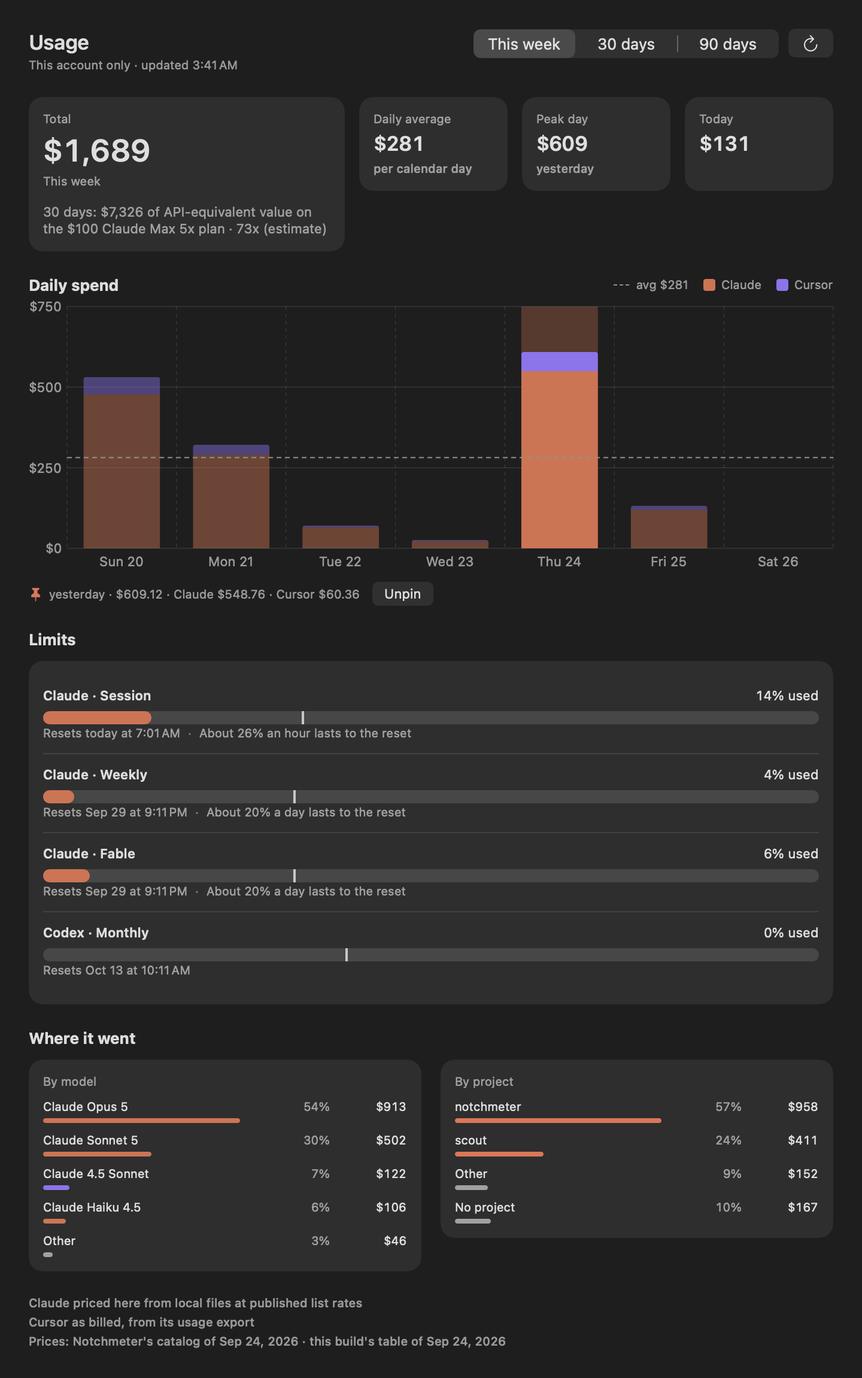
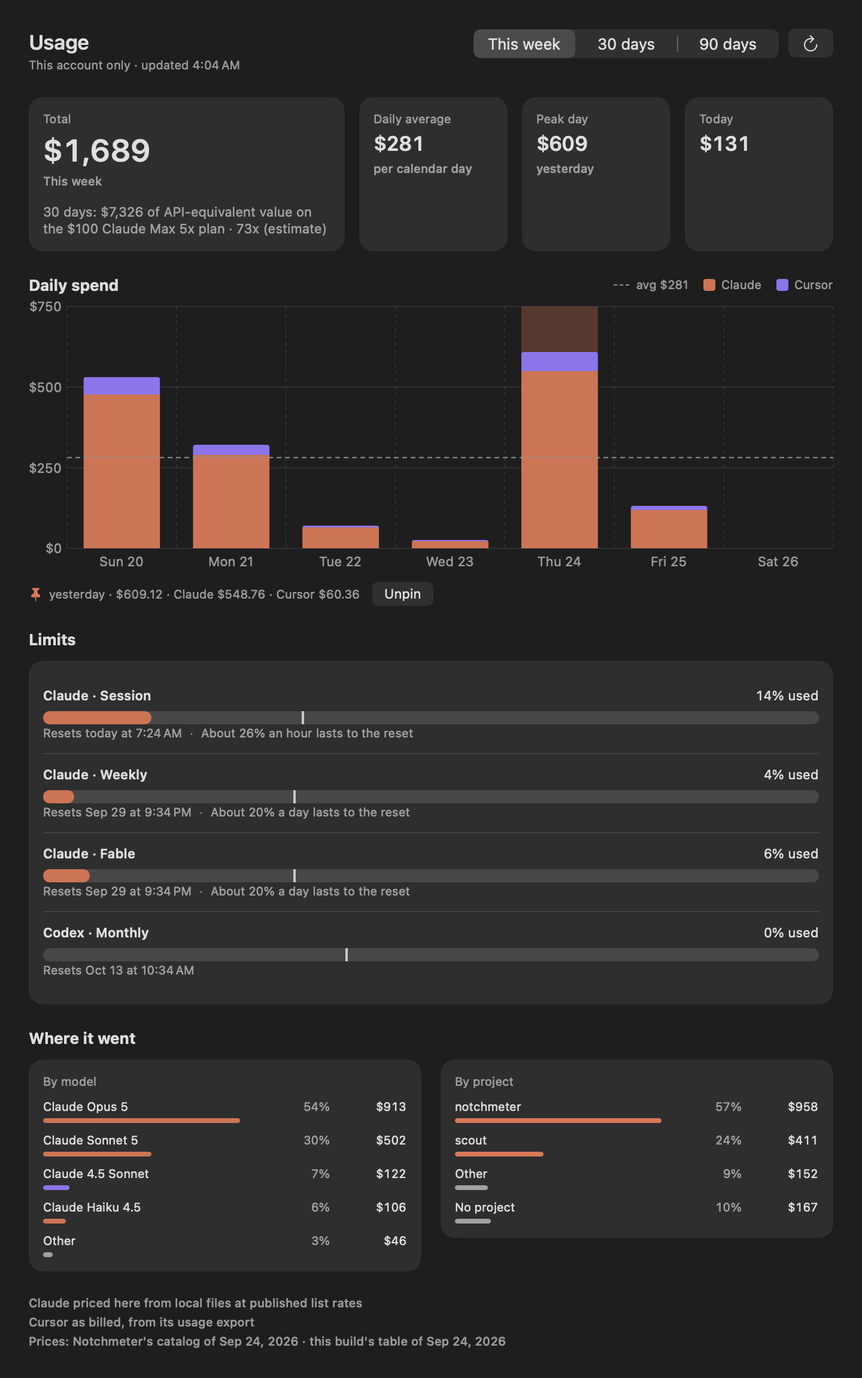
Dashboard: the review's fixes — no dim under a pin, one day per slot, the window's own status colours
The pin turned the hover's dim of the other days into the chart's resting state, at about 2:1 on either window
and off the legend's swatches: the bars now keep their colour whatever day is chosen, and the accent band alone
marks it. Each day's slot speaks its day once, as the label, with the figures as the value (dayFigures); the band
and the average rule are hidden from VoiceOver like the bars. The limits' vermillion and orange are resolved
against the window and its card box (DashboardLook.status) rather than borrowed from the black panel's palette,
which read 4.3:1 and 3.5:1 on the dark window; the meter's tick figure is the row's own words for VoiceOver, not
a tooltip's alone. A range change lets the preview go with the pin, the tiles stand as tall as the hero card, the
caption under the total takes the tiles' step, and features.md names the five review renders.

DashboardPresentation measures every assistant's bar on both windows, the status colours in both roles on both
windows and both card boxes, the slot's value against its label, and the selection after a range change.

Claude-Session: https://claude.ai/code/session_01XbqdrwMrwJ3enjCnoUf2M8

diff --git a/Sources/Notchmeter/Dashboard.swift b/Sources/Notchmeter/Dashboard.swift
@@ -270,19 +270,25 @@ extension ToolID {
     /// three older hues, whose notch values fall short of it. Both sets pass the dataviz validator (lightness band,
     /// chroma, CVD and normal-vision separation, contrast) against their surface.
     var chartColor: Color {
-        let dark: UInt32 = switch self {
-        case .claude: 0xCC7555
-        case .cursor: 0x8C74EA
-        case .codex: 0x34A874
-        case .gemini, .antigravity, .copilot, .kimi: identity.dark  // each above 5.8:1 on the dark window as it is
+        Color(nsColor: .adaptive(light: chartInk(dark: false).hex, dark: chartInk(dark: true).hex))
+    }
+
+    /// The value `chartColor` takes under each appearance, which `DashboardPresentation` holds to 3:1 on its
+    /// window: the bars are drawn at full strength whatever day is chosen, so this is the contrast they are read at.
+    func chartInk(dark: Bool) -> RGB {
+        guard dark else { return RGB(hex: identity.light) }
+        return switch self {
+        case .claude: RGB(hex: 0xCC7555)
+        case .cursor: RGB(hex: 0x8C74EA)
+        case .codex: RGB(hex: 0x34A874)
+        case .gemini, .antigravity, .copilot, .kimi: RGB(hex: identity.dark)  // each above 5.8:1 on the dark window as it is
         // The notch's violet sits on top of Cursor's periwinkle once both are stepped for a window (1.6 under
         // deuteranopia), so OpenCode's window step leans to the orchid side of the same purple: 17.9 normal and 7.9
         // CVD from the dark set at 3.55:1 on its surface; the light window takes the identity's own light value, 5.5:1
         // on white. The Dashboard names every series in its legend, which is the secondary encoding the 6–8 CVD
         // band asks for.
-        case .opencode: 0xC818B8
+        case .opencode: RGB(hex: 0xC818B8)
         }
-        return Color(nsColor: .adaptive(light: identity.light, dark: dark))
     }
 }
 
@@ -317,6 +323,28 @@ enum DashboardLook {
     /// The accent as text on the window: the pin beside the chosen day's figures.
     static func pin(dark: Bool, accent: PanelAccent, contrast: Bool) -> RGB {
         look(dark: dark, accent: accent, contrast: contrast).rgb(accentInk(contrast: contrast), role: .text)
+    }
+
+    static func window(dark: Bool) -> RGB { dark ? darkWindow : lightWindow }
+
+    /// A card's box on the window: CardBackground's wash of the look's ink over the window's ground, at the
+    /// opacity the card names (stronger under Increase Contrast), scaled as the look scales it (`PanelLook.box`
+    /// is the same wash over the panel's own sheet). Measured from the dark render as #2E2E2E.
+    static func box(dark: Bool, contrast: Bool) -> RGB {
+        let look = look(dark: dark, accent: .terracotta, contrast: contrast)
+        return look.ink.over(window(dark: dark), alpha: look.washOpacity(contrast ? 0.16 : 0.07))
+    }
+
+    /// A status colour on the window (the spent line and the behind-pace note as words, the meter's fill as a
+    /// mark): the look's value for the role, moved in lightness by the least that reads on the window and on a
+    /// card's box there, at 4.5:1 for words and 3:1 for a mark, as the panel's palette moves it for the panel's own
+    /// grounds (`RGB.readable`). The black look's vermillion passes on black (5.4:1) and so comes back from the
+    /// panel as it is, but the dark window is #1E1E1E, where it reads at 4.3:1, and its card box 3.5:1. The status
+    /// colours are the same under every accent, so the look is taken for the default one.
+    static func status(_ name: PanelInk, role: PanelLook.Role, dark: Bool, contrast: Bool) -> RGB {
+        let grounds = [window(dark: dark), box(dark: dark, contrast: contrast)]
+        return look(dark: dark, accent: .terracotta, contrast: contrast).rgb(name, role: role)
+            .readable(against: grounds, target: role == .text ? 4.5 : 3, lighter: dark)
     }
 }
 
@@ -358,6 +386,11 @@ struct DashboardSelection: Equatable {
 
     /// Escape, the Unpin button, or a change of range.
     mutating func unpin() { pinned = nil }
+
+    /// A change of range: the chart is rebuilt for it (DashboardView.chartSection) and the old range's slots go
+    /// without reporting the pointer's leave, so the preview is let go with the pin rather than naming a day
+    /// the pointer is no longer over.
+    mutating func clearHover() { hovered = nil }
 }
 
 /// The hero and the three tiles as they are printed: the range's total, the value line under it, and the average,
@@ -454,7 +487,7 @@ struct DashboardView: View {
                     hero(DashboardHero(model: model, valueLine: store.planValueLine(for: range.costRange)))
                     chartSection(model, accent: accent, ink: ink, pinMark: DashboardLook.pin(dark: dark, accent: store.prefs.panelAccent, contrast: contrast).color)
                 }
-                if !limits.isEmpty { limitsSection(limits) }
+                if !limits.isEmpty { limitsSection(limits, dark: dark, contrast: contrast) }
                 if !model.isEmpty { breakdownSection(model, accent: accent) }
                 if !model.isEmpty { sourcesFootnote(model) }
             }
@@ -464,8 +497,10 @@ struct DashboardView: View {
         .environment(\.panelLook, look)
         .environment(\.density, store.prefs.density)
         .onChange(of: range) {
-            // The chart is rebuilt for the new range, and a pin on a day its bars may not hold goes with it.
+            // The chart is rebuilt for the new range: a pin on a day its bars may not hold goes with it, and so
+            // does the preview, since the old range's slots are torn down without reporting the pointer's leave.
             if selection.isPinned { unpin() }
+            selection.clearHover()
         }
         if scrolls {
             ScrollView { content }
@@ -559,7 +594,8 @@ struct DashboardView: View {
         VStack(alignment: .leading, spacing: 4) {
             Text(L("Total")).font(.caption).foregroundStyle(Caption.style)
             Text(figures.total).font(.largeTitle.weight(.semibold)).monospacedDigit().lineLimit(1).minimumScaleFactor(0.6)
-            Text(figures.range).font(.caption).foregroundStyle(Caption.style)
+            // The caption under a figure, at the step the tiles' captions take; "Total" above is a title, like theirs.
+            Text(figures.range).modifier(Caption())
             if let value = figures.value {
                 Text(value)
                     .font(.subheadline).foregroundStyle(Caption.style)
@@ -578,7 +614,9 @@ struct DashboardView: View {
             Text(tile.value).font(.title2.weight(.semibold)).monospacedDigit().lineLimit(1).minimumScaleFactor(0.7)
             Text(tile.caption.isEmpty ? " " : tile.caption).modifier(Caption()).lineLimit(1).fixedSize()
         }
-        .frame(minWidth: 100, maxWidth: .infinity, alignment: .leading)
+        // As tall as the row: the hero's value line wraps to two lines in English at the window's width and three
+        // in Russian, and a tile that kept its own height would leave the row's bottom ragged beside it.
+        .frame(minWidth: 100, maxWidth: .infinity, maxHeight: .infinity, alignment: .topLeading)
         .modifier(CardBackground())
         .accessibilityElement(children: .combine)
     }
@@ -635,14 +673,22 @@ struct DashboardView: View {
             }
             .frame(maxWidth: .infinity, alignment: .leading)
         } else {
-            Text(day.map(Self.dayLine) ?? L("Hover a bar for that day's figures; click it to keep them."))
+            Text(day.map { Self.dayLine($0) } ?? L("Hover a bar for that day's figures; click it to keep them."))
                 .font(.caption).foregroundStyle(Caption.style)
                 .frame(maxWidth: .infinity, alignment: .leading)
         }
     }
 
-    static func dayLine(_ day: DashboardModel.Day) -> String {
-        var parts = [ResetText.dayPhrase(day.day, now: Date(), calendar: .current), Money.dollars(day.total)]
+    /// "yesterday · $609.12 · Claude $548.76 · Cursor $60.36": the day, then its figures.
+    static func dayLine(_ day: DashboardModel.Day, now: Date = Date(), calendar: Calendar = .current) -> String {
+        "\(ResetText.dayPhrase(day.day, now: now, calendar: calendar)) · \(dayFigures(day))"
+    }
+
+    /// The day's figures without the day: the total, whether the bar holds only part of the day, and the split by
+    /// assistant where more than one spent. A slot's VoiceOver value, whose label is the day already, so a slot
+    /// does not name its day twice.
+    static func dayFigures(_ day: DashboardModel.Day) -> String {
+        var parts = [Money.dollars(day.total)]
         // The Today tile counts the whole day; this bar only what came after the week reset.
         if day.partial { parts.append(L("since the week reset")) }
         if day.byTool.count > 1 {
@@ -675,13 +721,13 @@ struct DashboardView: View {
 
     // MARK: Limits
 
-    private func limitsSection(_ limits: [DashboardLimit]) -> some View {
+    private func limitsSection(_ limits: [DashboardLimit], dark: Bool, contrast: Bool) -> some View {
         VStack(alignment: .leading, spacing: 10) {
             sectionTitle(L("Limits"))
             VStack(spacing: 0) {
                 ForEach(Array(limits.enumerated()), id: \.element.id) { index, limit in
                     if index > 0 { Divider() }
-                    LimitRow(limit: limit, timeFormat: store.prefs.timeFormat)
+                    LimitRow(limit: limit, timeFormat: store.prefs.timeFormat, dark: dark, contrast: contrast)
                         .padding(.vertical, 10)
                 }
             }
@@ -737,9 +783,12 @@ private struct Line: Shape {
 }
 
 /// Stacked daily bars, one colour per assistant, a dashed line at the daily average, and a band in the accent over
-/// the day whose figures are under the chart, stronger while that day is pinned. The bars themselves say nothing to
-/// VoiceOver: an invisible element over each day's slot speaks for them (the day, the total, the split) and takes
-/// the hover and the click, so what a pointer can pin a VoiceOver reader can pin too, and no figure is hover-only.
+/// the day whose figures are under the chart, stronger while that day is pinned. The band is the only mark of the
+/// day: the other days' bars keep their colour, since dimming them (as a hover once did) put six of seven bars
+/// under 3:1 on either window and off the legend's swatches for as long as a pin held. The bars, the band and the
+/// rule say nothing to VoiceOver: an invisible element over each day's slot speaks for them (the day, the total,
+/// the split) and takes the hover and the click, so what a pointer can pin a VoiceOver reader can pin too, and no
+/// figure is hover-only.
 private struct DailySpendChart: View {
     let model: DashboardModel
     let shown: DashboardModel.Day?
@@ -770,20 +819,22 @@ private struct DailySpendChart: View {
     var body: some View {
         Chart {
             if let shown {
-                // First, so it lies under the bars.
+                // First, so it lies under the bars. Hidden from VoiceOver like the bars: the day's slot speaks for it.
                 RectangleMark(x: .value(L("Day"), shown.day, unit: .day))
                     .foregroundStyle(accent.opacity(pinned ? 0.3 : 0.16))
+                    .accessibilityHidden(true)
             }
             ForEach(model.bars) { bar in
                 BarMark(x: .value(L("Day"), bar.day, unit: .day), y: .value(L("Spend"), bar.cost))
                     .foregroundStyle(by: .value(L("Assistant"), bar.tool.displayName))
-                    .opacity(shown.map { calendar.isDate(bar.day, inSameDayAs: $0.day) } ?? true ? 1 : 0.45)
                     .accessibilityHidden(true)
             }
             if let average = model.dailyAverage {
+                // Its figure is in the legend above the chart ("avg $281"), so the rule itself says nothing.
                 RuleMark(y: .value(L("Daily average"), average))
                     .foregroundStyle(ink)
                     .lineStyle(StrokeStyle(lineWidth: 1, dash: [4, 3]))
+                    .accessibilityHidden(true)
             }
         }
         .chartForegroundStyleScale(domain: model.tools.map(\.displayName), range: model.tools.map(\.chartColor))
@@ -841,22 +892,37 @@ private struct DailySpendChart: View {
             .accessibilityElement()
             .accessibilityAction { click(day.day) }
             .accessibilityLabel(ResetText.dayPhrase(day.day, now: Date(), calendar: calendar))
-            .accessibilityValue(Spoken.line(isPinned ? L("Pinned") : nil, DashboardView.dayLine(day)))
+            // The figures alone: the label is the day, and the line under the chart is the one that repeats it.
+            .accessibilityValue(Spoken.line(isPinned ? L("Pinned") : nil, DashboardView.dayFigures(day)))
             .accessibilityHint(L("Pins or unpins this day's figures under the chart"))
             .accessibilityAddTraits(.isButton)
     }
 }
 
+/// One limit: the meter, the reset and the allowance, and the pace note. The status colours are the window's own
+/// (`DashboardLook.status`), resolved here rather than through `Themed`, whose look is derived against the panel's
+/// grounds and not the window's.
 private struct LimitRow: View {
     let limit: DashboardLimit
     let timeFormat: TimeFormatPreference
+    let dark: Bool
+    let contrast: Bool
+
+    private func status(_ name: PanelInk, _ role: PanelLook.Role) -> Color {
+        DashboardLook.status(name, role: role, dark: dark, contrast: contrast).color
+    }
 
     private var fillColor: Color {
         switch limit.status {
-        case .behind: Palette.danger
-        case .onTrack: Palette.warn
-        default: limit.used >= 1 ? Palette.danger : limit.tool.chartColor
+        case .behind: status(.danger, .mark)
+        case .onTrack: status(.warn, .mark)
+        default: limit.used >= 1 ? status(.danger, .mark) : limit.tool.chartColor
         }
+    }
+
+    /// "The tick marks an even pace: 33% of the window has passed", the tick's figure in words.
+    private var tickLine: String? {
+        limit.elapsed.map { L("The tick marks an even pace: %ld%% of the window has passed", Int(($0 * 100).rounded())) }
     }
 
     var body: some View {
@@ -867,9 +933,14 @@ private struct LimitRow: View {
                 Text(L("%ld%% used", Int((limit.used * 100).rounded()))).font(.subheadline).monospacedDigit()
             }
             // The panel's own meter (the bar under every window on the cards): the fill in the pace colour or the
-            // tool's own, the tick where an even burn would be now, the track the look gives it.
+            // tool's own, the tick where an even burn would be now, the track the look gives it. The tick's figure
+            // is the tooltip for a pointer and the meter's own words for VoiceOver, which the row's combined
+            // element reads with the rest, so the one number the tick encodes is never a hover's alone.
             Meter(fraction: limit.used, tick: limit.elapsed, color: fillColor)
-                .help(limit.elapsed.map { L("The tick marks an even pace: %ld%% of the window has passed", Int(($0 * 100).rounded())) } ?? "")
+                .help(tickLine ?? "")
+                .accessibilityElement(children: .ignore)
+                .accessibilityLabel(tickLine ?? "")
+                .accessibilityHidden(tickLine == nil)
             HStack(alignment: .firstTextBaseline, spacing: 6) {
                 if let reset = limit.window.resetsAt {
                     Text(ResetText.line(resetsAt: reset, hasLimit: true, display: .exact, timeFormat: timeFormat, stale: limit.staleLine != nil))
@@ -879,7 +950,7 @@ private struct LimitRow: View {
                     Text(verbatim: "·").foregroundStyle(Ink.tertiary)
                     if limit.used >= 1 {
                         // The spent bar is vermillion; the words and a symbol say why, never the fill alone.
-                        Label(line, systemImage: "exclamationmark.triangle.fill").foregroundStyle(Themed(Palette.danger, .text))
+                        Label(line, systemImage: "exclamationmark.triangle.fill").foregroundStyle(status(.danger, .text))
                     } else {
                         Text(line).foregroundStyle(Caption.style)
                     }
@@ -890,7 +961,7 @@ private struct LimitRow: View {
             if let note = limit.note, let status = limit.status, let symbol = status.symbolName {
                 Label(note, systemImage: symbol)
                     .font(.caption.weight(.medium))
-                    .foregroundStyle(Themed(status == .behind ? Palette.danger : Palette.warn, .text))
+                    .foregroundStyle(self.status(status == .behind ? .danger : .warn, .text))
             }
             if let stale = limit.staleLine {
                 Text(stale).font(.caption).foregroundStyle(Caption.style)

diff --git a/Tests/NotchmeterTests/DashboardTests.swift b/Tests/NotchmeterTests/DashboardTests.swift
@@ -346,6 +346,44 @@ import Testing
         #expect(DashboardLook.look(dark: false, accent: .lilac, contrast: true).contrast)
     }
 
+    /// The bars are drawn at full strength whatever day is chosen (a pin once dimmed the other days to 0.45, which
+    /// put Claude at 2.0:1 and Cursor at 1.9:1 on either window), so the contrast a bar is read at is its colour's
+    /// own against the window it is on, and every assistant's clears the 3:1 a mark owes there.
+    @Test func everyAssistantsBarsReadOnEitherWindow() {
+        let minimumMark = 3.0
+        for tool in ToolID.allCases {
+            #expect(tool.chartInk(dark: true).contrast(DashboardLook.darkWindow) >= minimumMark, "\(tool) on the dark window")
+            #expect(tool.chartInk(dark: false).contrast(DashboardLook.lightWindow) >= minimumMark, "\(tool) on the light window")
+        }
+    }
+
+    /// The status colours on the limits card are held to the window's own grounds, not the panel's: the black
+    /// look's vermillion passes as text on black (5.4:1) and so the panel leaves it, but the dark window is #1E1E1E
+    /// (4.3:1) and a card's box on it #2E2E2E (3.5:1), both under the 4.5:1 words owe. Measured in both roles on
+    /// both windows and both card boxes, with and without Increase Contrast.
+    @Test func theStatusColoursReadOnEitherWindowAndItsCards() {
+        #expect(DashboardLook.box(dark: true, contrast: false).description == "#2E2E2E", "the card box the dark render measured")
+        for dark in [true, false] {
+            for contrast in [false, true] {
+                let window = DashboardLook.window(dark: dark)
+                let box = DashboardLook.box(dark: dark, contrast: contrast)
+                for name in [PanelInk.danger, .warn] {
+                    let text = DashboardLook.status(name, role: .text, dark: dark, contrast: contrast)
+                    let mark = DashboardLook.status(name, role: .mark, dark: dark, contrast: contrast)
+                    let pairing = "\(name) \(dark ? "dark" : "light")\(contrast ? " contrast" : "")"
+                    #expect(text.contrast(window) >= 4.5, "\(pairing) as text on the window")
+                    #expect(text.contrast(box) >= 4.5, "\(pairing) as text on the card box")
+                    #expect(mark.contrast(window) >= 3, "\(pairing) as a mark on the window")
+                    #expect(mark.contrast(box) >= 3, "\(pairing) as a mark on the card box")
+                }
+            }
+        }
+        let panels = PanelInk.danger.onBlack
+        let lifted = DashboardLook.status(.danger, role: .text, dark: true, contrast: false)
+        #expect(lifted != panels, "the dark window's vermillion is lifted from the panel's, which reads 4.3:1 there")
+        #expect(lifted.contrast(panels) < 2, "and lifted in lightness alone, so it is still the vermillion")
+    }
+
     /// The system accent is the one colour on the Mac that says nothing about this app, and the audit of the 0.9.0
     /// render found it on the breakdown's bars: the only blue on the page, and a blue the panel never draws.
     @Test func nothingOnTheDashboardIsDrawnInTheSystemAccent() throws {
@@ -395,6 +433,34 @@ import Testing
         selection.unpin()
         #expect(selection.isPinned == false)
         #expect(selection.shown == day(0), "with the pin gone, the day under the pointer is back")
+    }
+
+    /// A change of range rebuilds the chart, and the old range's slots go without reporting the pointer's leave:
+    /// the preview is let go with the pin, or the line under the chart would name a day the pointer has left.
+    @Test func aChangeOfRangeLetsThePreviewGoWithThePin() {
+        var selection = DashboardSelection(calendar: utc)
+        selection.hover(day(-1), inside: true)
+        selection.click(day(-2))
+        selection.unpin()
+        selection.clearHover()
+        #expect(selection.isPinned == false)
+        #expect(selection.shown == nil, "neither the pin nor the day the pointer was over")
+    }
+
+    /// A day's slot is one VoiceOver element whose label is the day and whose value is the figures, so the day is
+    /// spoken once; the line under the chart is the one that carries both.
+    @Test func aSlotSpeaksItsDayOnceAndItsFiguresAsTheValue() throws {
+        let claude = provider(.claude, source: .localTranscripts, days: [day(0): record(60)])
+        let cursor = provider(.cursor, source: .billingExport, days: [day(0): record(30, model: "gpt-5.6")])
+        let model = DashboardModel(providers: [claude, cursor], range: .week, weekStart: day(-3), now: now, calendar: utc)
+        let today = try #require(model.days.last)
+        let phrase = ResetText.dayPhrase(today.day, now: now, calendar: utc)
+        let figures = DashboardView.dayFigures(today)
+        #expect(figures == "$90.00 · \(ToolID.claude.displayName) $60.00 · \(ToolID.cursor.displayName) $30.00")
+        #expect(!figures.hasPrefix(phrase), "the value does not start with the label")
+        #expect(DashboardView.dayLine(today, now: now, calendar: utc) == "\(phrase) · \(figures)")
+        let spoken = Spoken.line("Pinned", figures)
+        #expect(spoken.hasPrefix("Pinned, $90.00"), "pinned, then the figures, and no day: \(spoken)")
     }
 
     @Test func thePinnedDayIsMatchedByCalendarDayInTheModel() {

diff --git a/docs/features.md b/docs/features.md
@@ -78,7 +78,7 @@ Notchmeter never signs in anywhere and never stores a token. Each reading is bor
 
 *The same strip a moment apart. Above, Claude Code is waiting for an answer: the rings take the blue that means needs you rather than running out, and the white dot on the corner of the Claude readout says which of the two states it is. Below, a turn has just ended: the same blue at its quiet level, a tick in place of the dot, and the rings back at their quiet size, because a finish is news rather than a block and never makes the readout louder.*
 
-The pictures, the dashboard's among them, are drawn by `Notchmeter --render-assets docs/media` (`--render-dashboard` draws the dashboard's review set: light and dark, 30 and 90 days) from the real views over fixed readings and a fixed set of hook events (the OpenCode pair above from a second fixture, OpenCode on Go with no plugin installed, whose every figure comes from synthetic turns run through the same code) — Claude on Max 5x an hour and forty minutes into a quiet five-hour session, so a third of it gone by the clock and 14 % of the allowance gone with it, two Claude Code sessions open and one of them waiting on a permission prompt, Codex and Cursor on free plans — not from a live account, so they come out the same on every build and show nobody's usage. For review, the same run draws the rows 0.9.0 added on a Mac of their own (`assistants.png`, `assistants-compact.png`, `assistants-detailed.png` and `assistants-contrast.png`): Gemini CLI on a Standard seat with a session held on a tool permission, Antigravity on Google AI Pro, and Kimi Code with its five-hour, weekly and monthly windows and a turn running. It also draws the edge pill under the Light appearance for both fixtures (`pill-light.png`, `assistants-pill-light.png`), the one surface where the identity colours take their light values.
+The pictures, the dashboard's among them, are drawn by `Notchmeter --render-assets docs/media` (`--render-dashboard` draws the review set: the week light and dark, the dark one with the peak day pinned, 30 and 90 days, and the week at the window's narrowest) from the real views over fixed readings and a fixed set of hook events (the OpenCode pair above from a second fixture, OpenCode on Go with no plugin installed, whose every figure comes from synthetic turns run through the same code) — Claude on Max 5x an hour and forty minutes into a quiet five-hour session, so a third of it gone by the clock and 14 % of the allowance gone with it, two Claude Code sessions open and one of them waiting on a permission prompt, Codex and Cursor on free plans — not from a live account, so they come out the same on every build and show nobody's usage. For review, the same run draws the rows 0.9.0 added on a Mac of their own (`assistants.png`, `assistants-compact.png`, `assistants-detailed.png` and `assistants-contrast.png`): Gemini CLI on a Standard seat with a session held on a tool permission, Antigravity on Google AI Pro, and Kimi Code with its five-hour, weekly and monthly windows and a turn running. It also draws the edge pill under the Light appearance for both fixtures (`pill-light.png`, `assistants-pill-light.png`), the one surface where the identity colours take their light values.
 
 ## The welcome tour
 
